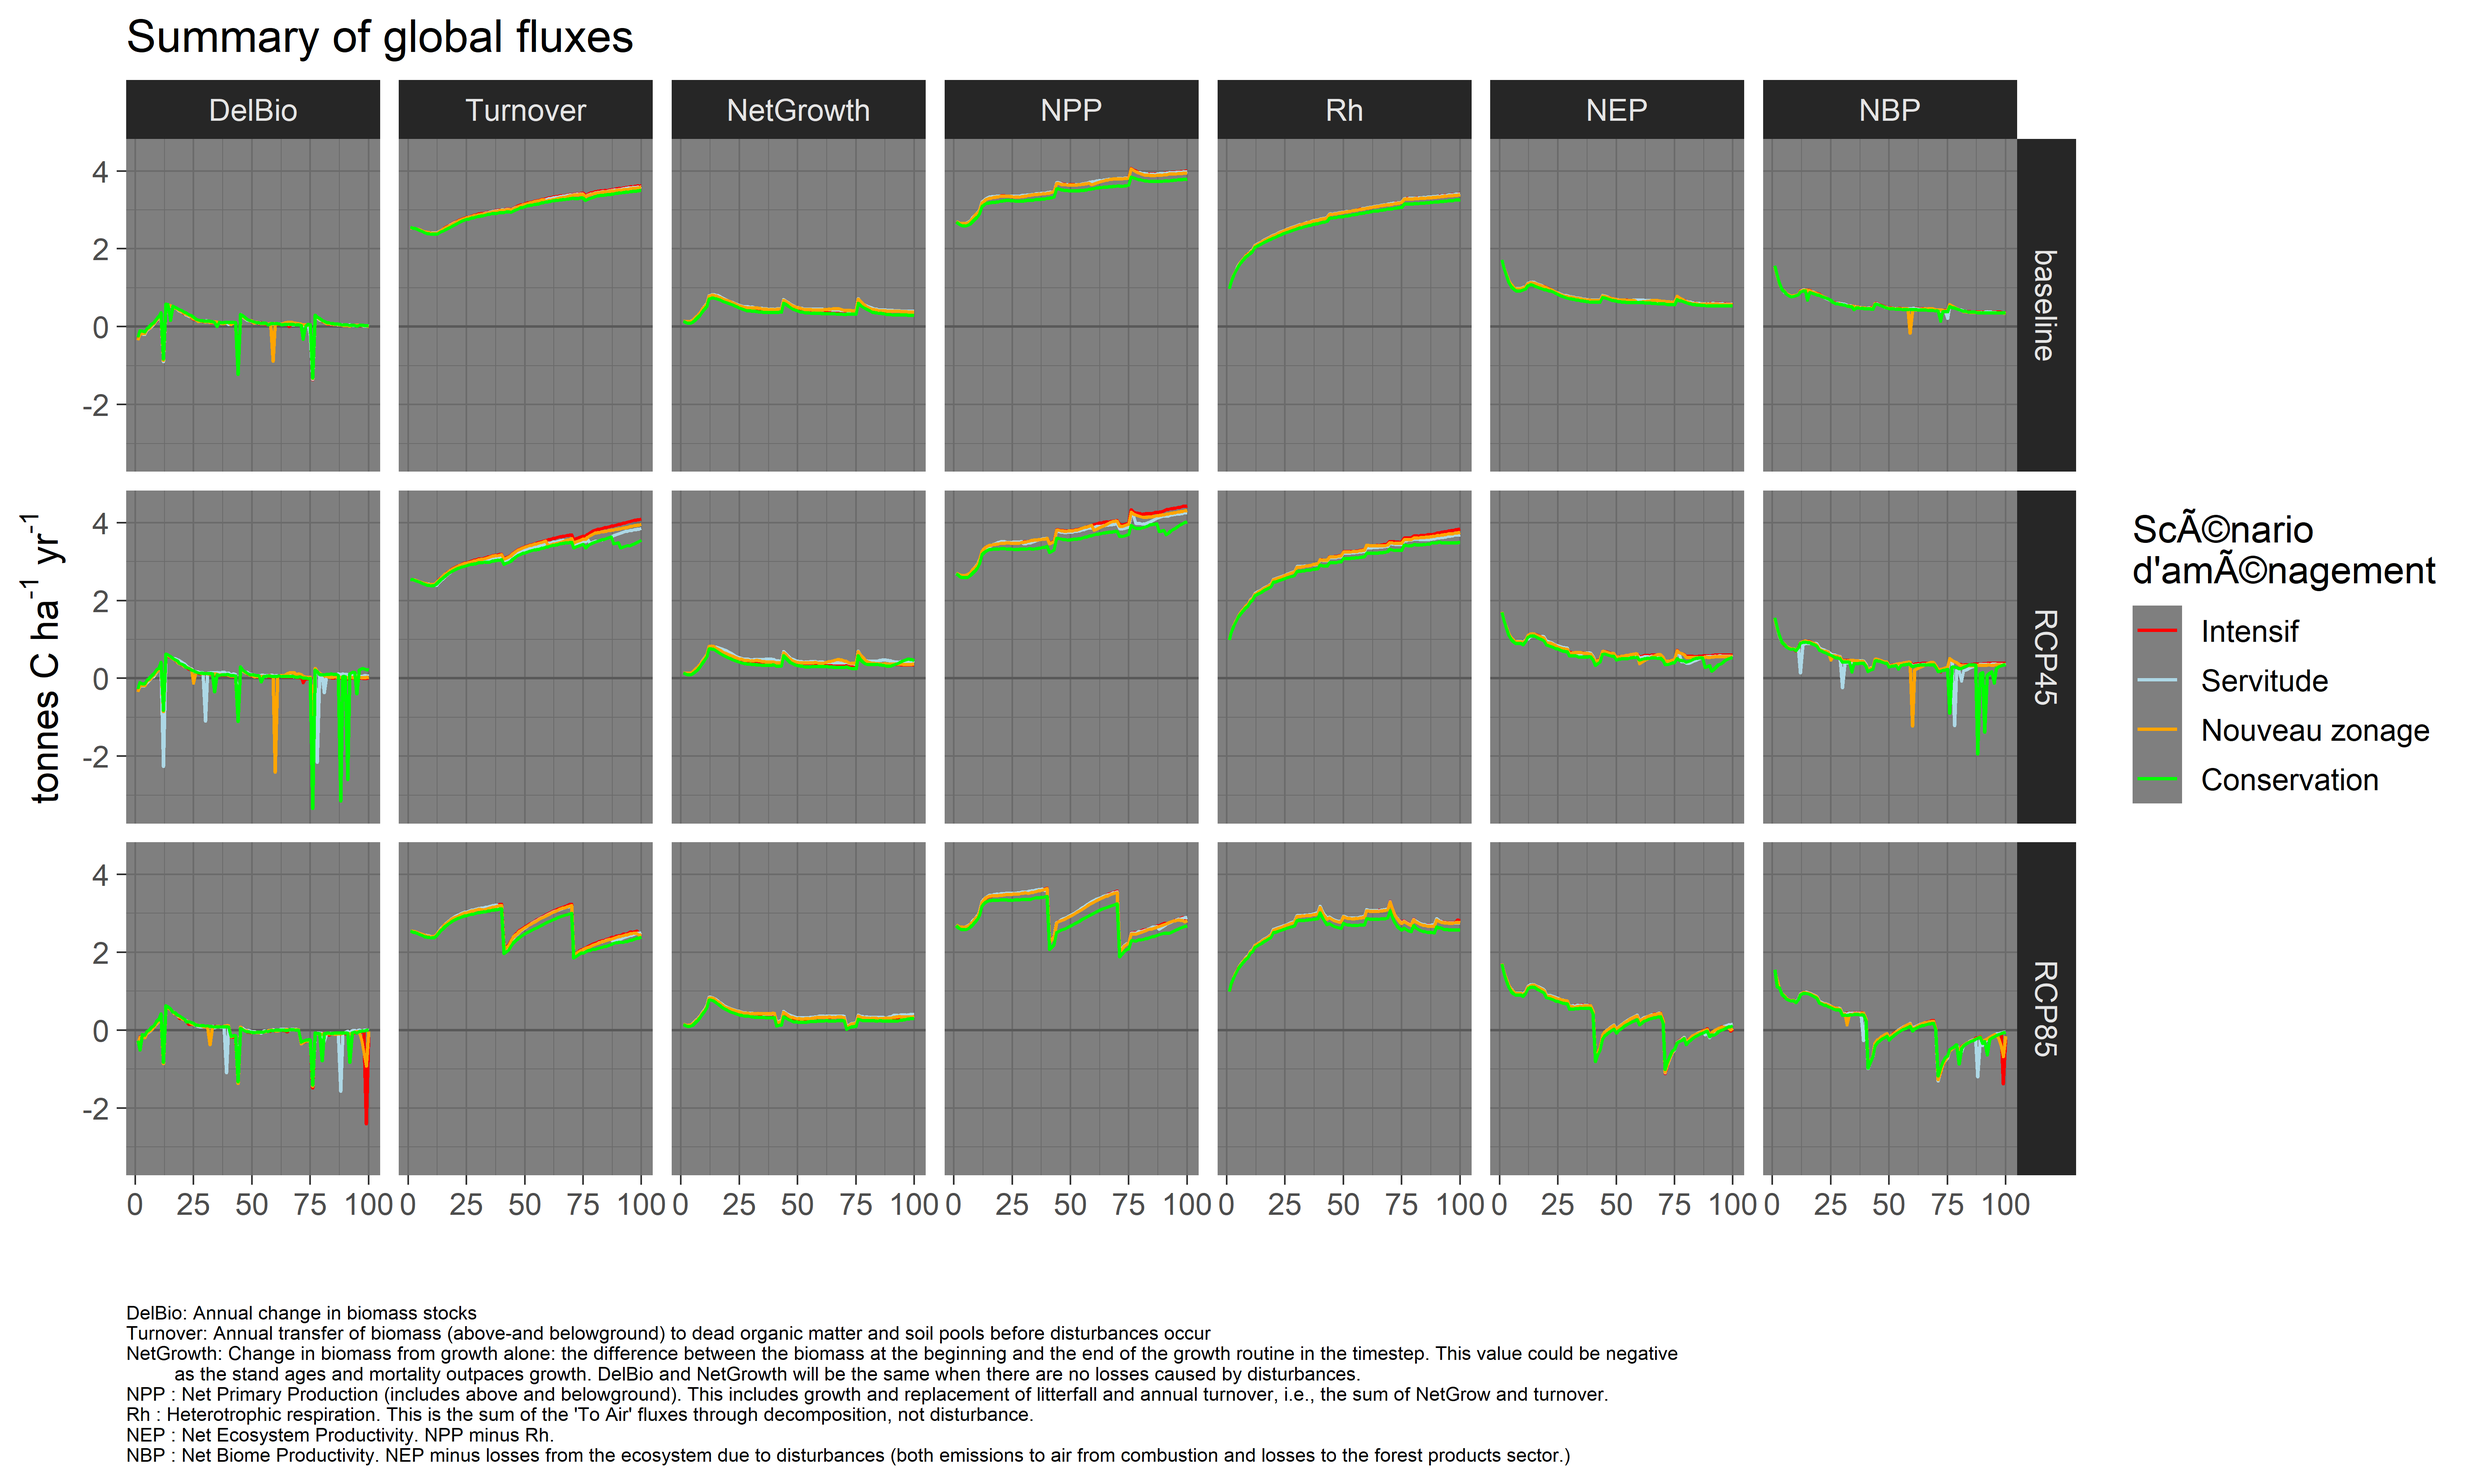
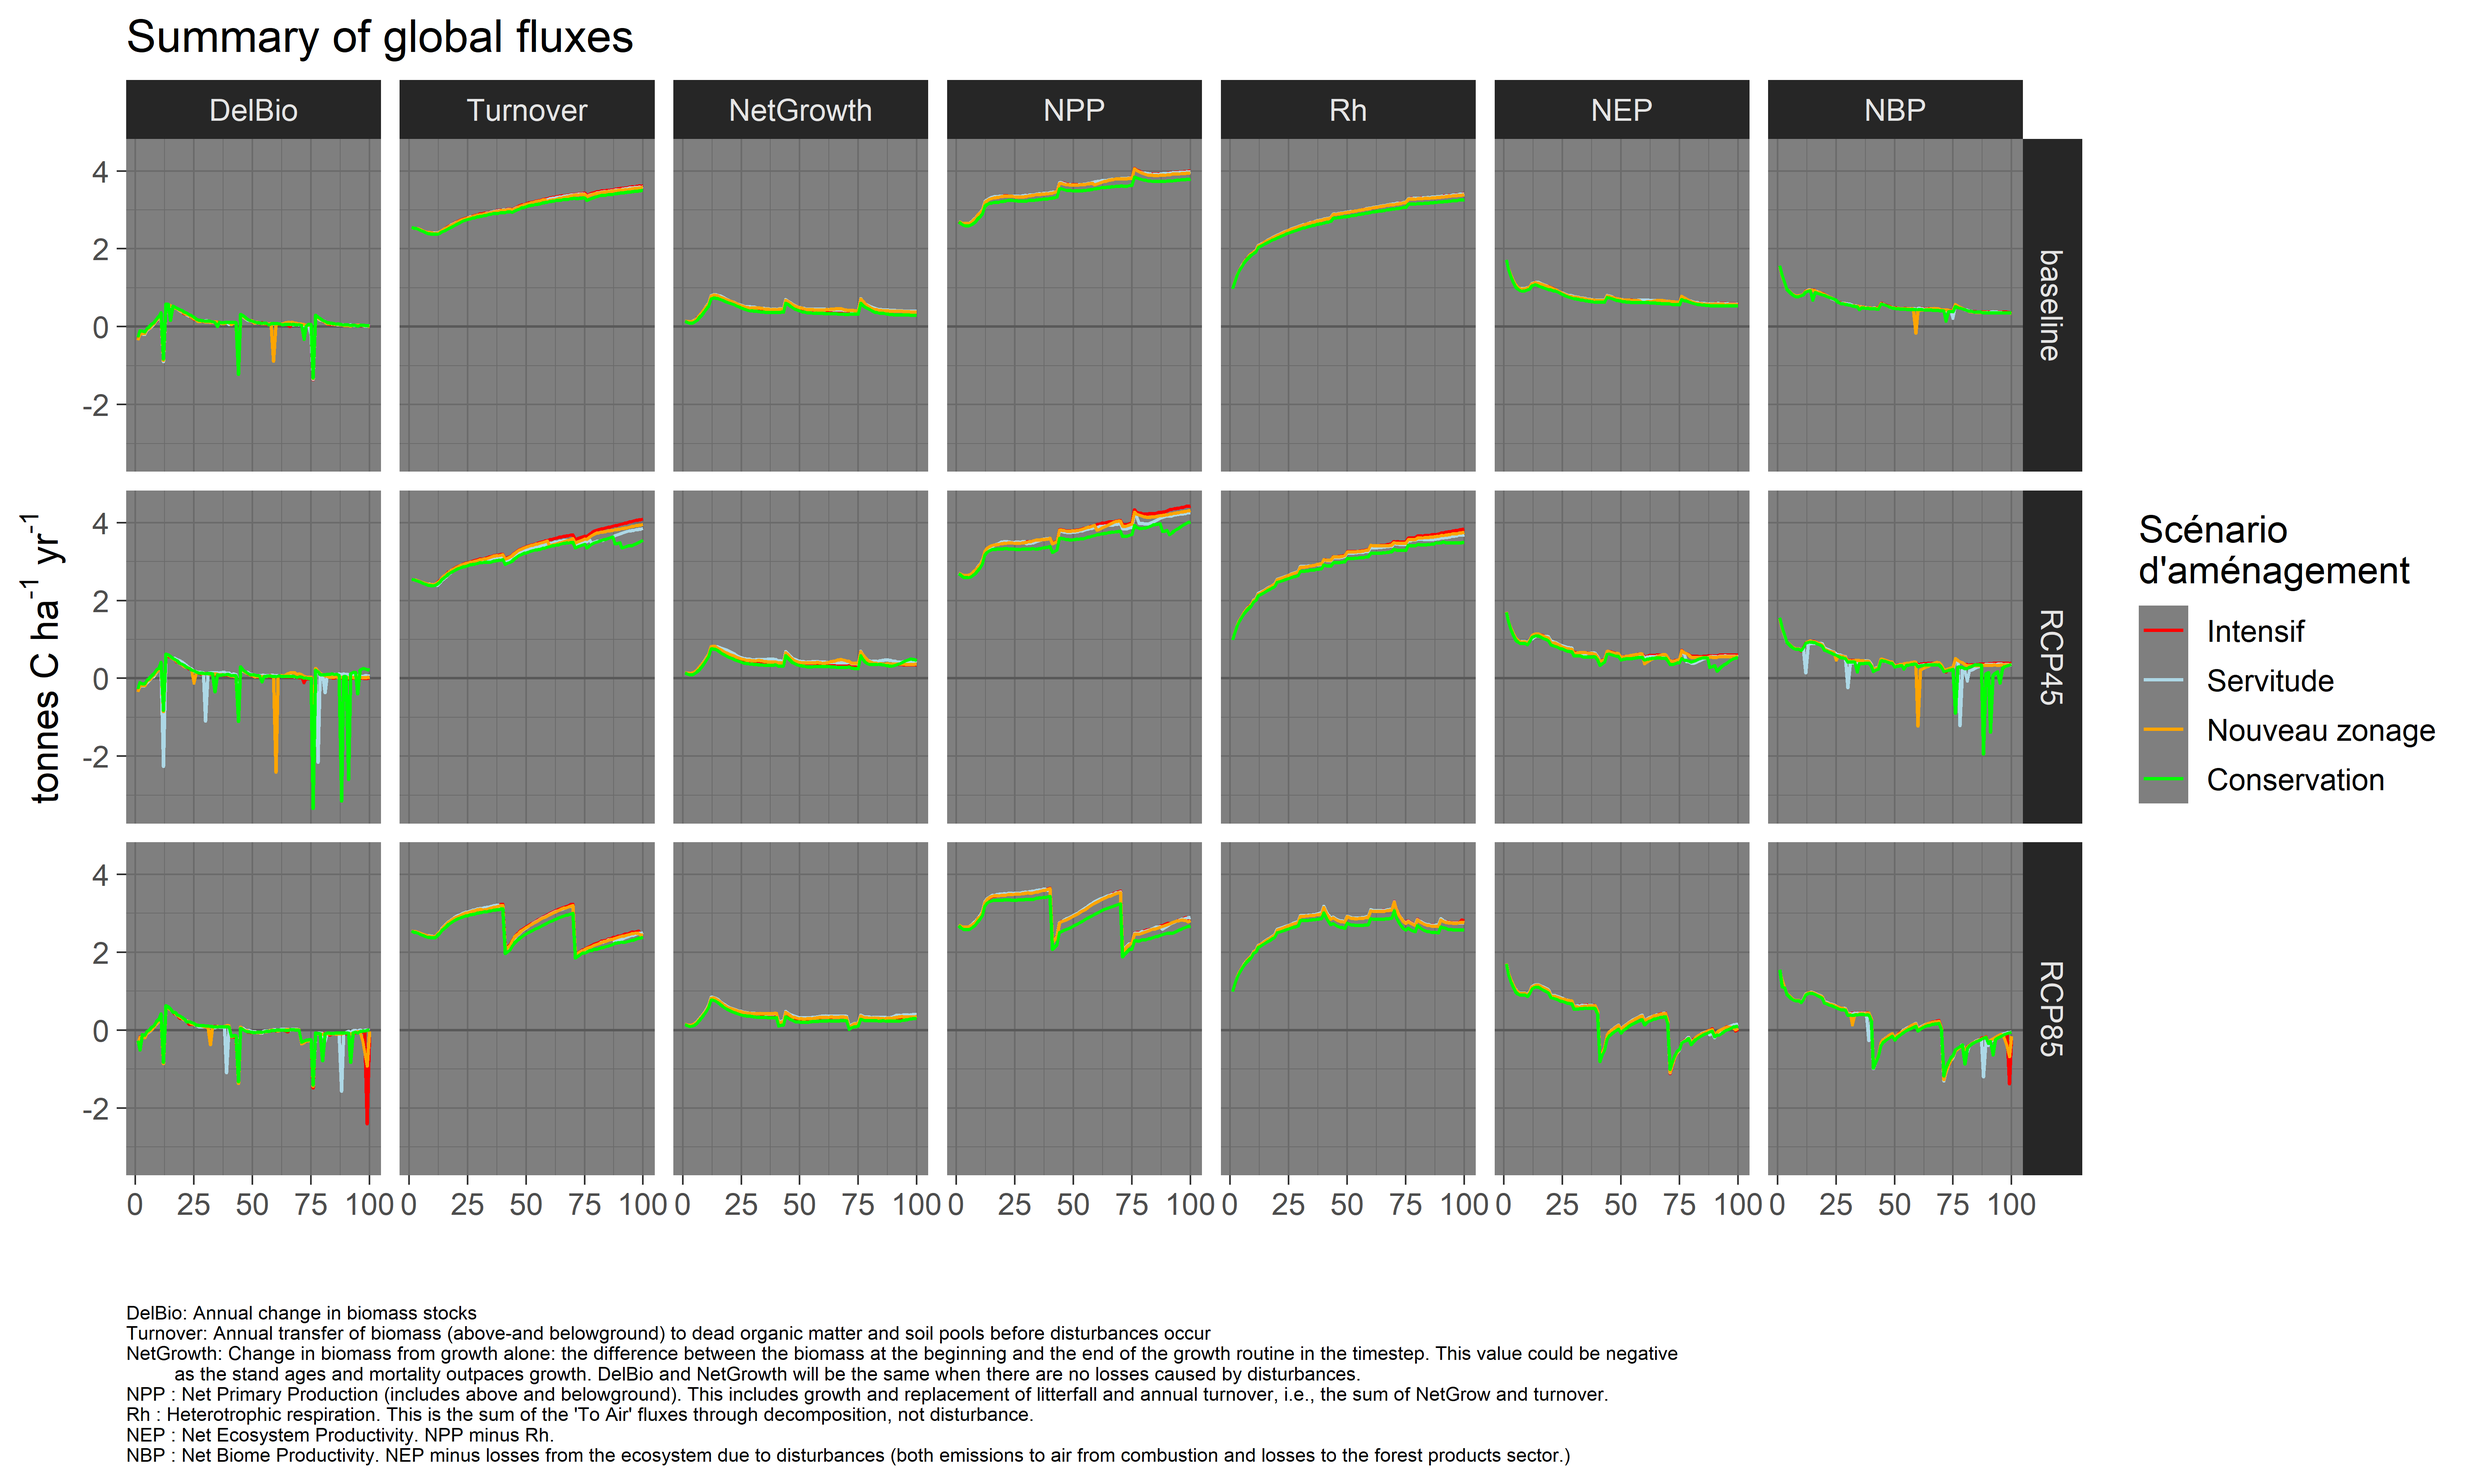
minor modifications

diff --git a/README.md b/README.md
@@ -10,7 +10,7 @@ output:
     toc: no
 ---
 
-Updated on oct. 15 2019
+Updated on oct. 18 2019
 
 
 -------
@@ -30,9 +30,11 @@ This repository contains input files, documentation and compiled simulation outp
    
 ![](figures/fluxes_Summary.png)
 
+![](figures/fps_Stacked_Hereford.png)
+
 -----------  
 
-### Projected mean temperature - Forêt Hereford
+### Projected mean temperature - ForÃªt Hereford
 
 ![](figures/Tmean_Estrie.png)
 
